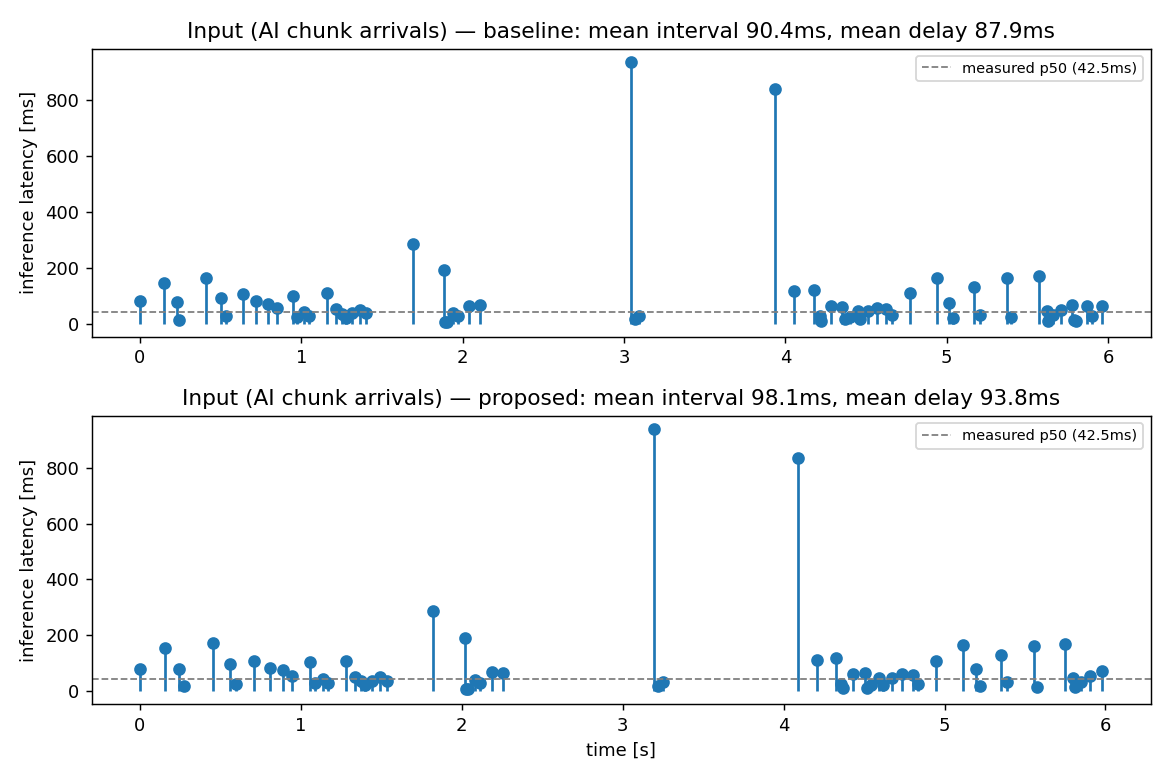
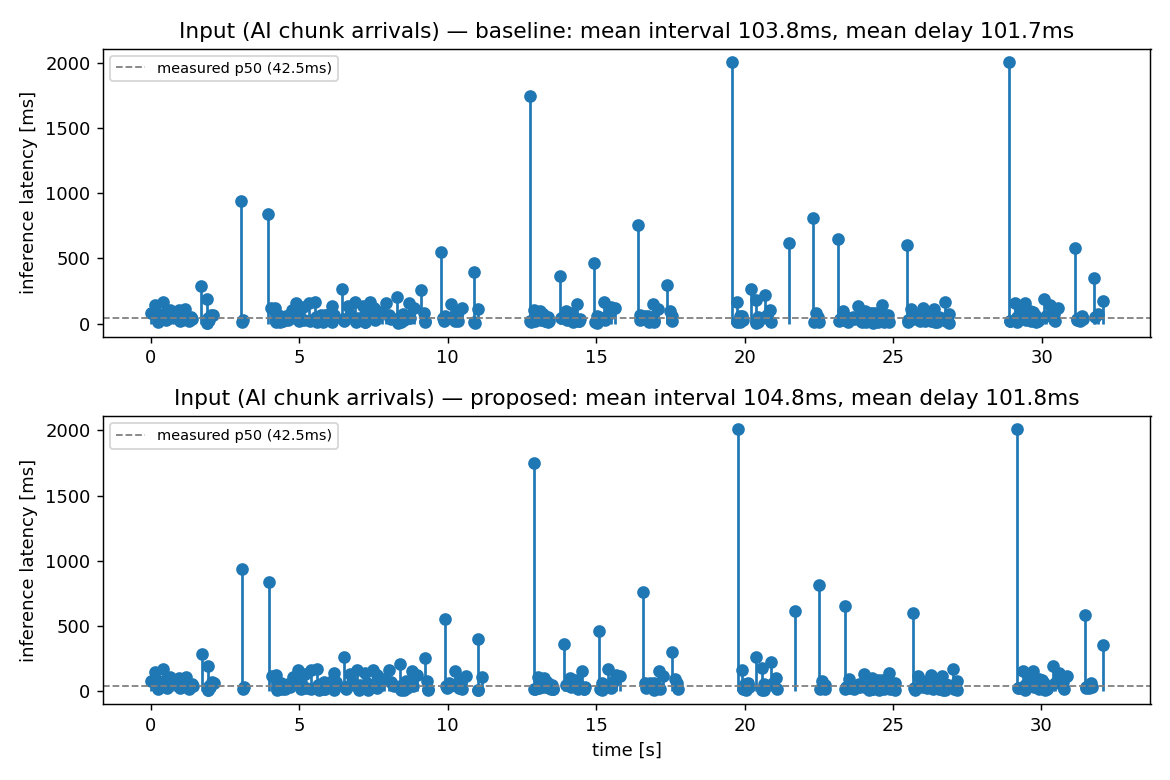
Regenerate point-mass comparison graphs with a duration long enough to finish the path
The default path (2x0.3m segments at 0.02m/s) needs 30s to complete,
but make_plots.py was run with --duration 6 -- so even "proposed" only
covered 1/5 of the path, and the baseline/proposed gap (and the corner
itself) barely showed up. Reran at --duration 32: proposed now
completes the full 0.6m path, baseline visibly stalls at 0.15m and
never reaches the corner. Updated the graph descriptions in
Experiment_Plan.md to match. 05-09 (module-ablation bars and the
generalization sweeps) are unaffected -- they're sourced from the
separate 5s/config sweep.csv, not this pair.

diff --git a/docs/Experiment_Plan.md b/docs/Experiment_Plan.md
@@ -245,21 +245,26 @@ CPU를 먹었다 — 코너가 급격해질수록 지터가 커지는 것처럼 
 
 ### 그래프 (`ai_layer/tools/make_plots.py`, `docs/ablation_results/*.png`)
 
+2026-10-10(3차, 기범 피드백 — "강제 종료 시간이 너무 짧은 것 같다"): 처음엔 `--duration 6`으로
+돌렸는데, 기본 경로가 세그먼트 0.3m×2=0.6m에 속도 0.02m/s라 **완주하려면 30초가 필요**했다 —
+6초짜리는 proposed조차 전체 경로의 1/5(0.12m)밖에 못 가서 "끝까지 다 보여주지 못하는" 그래프였다.
+`--duration 32`로 다시 돌려서 재생성(이하 숫자는 전부 32초 기준으로 교체).
+
 **① 입력 — AI chunk 도착 시각/추론 지연**
 ![입력 그래프](ablation_results/01_input_chunk_timing.png)
-Problem.md의 핵심 전제(추론 주기가 불규칙하고 1ms보다 훨씬 길다)를 실측으로 보여준다 — 실측 분포(p50 42.5ms) 기준 샘플링인데도 가끔 900ms대 스파이크가 섞인다. baseline/proposed는 같은 시드라 입력 자체는 동일(인터페이스 쪽 차이만 보려는 설계).
+Problem.md의 핵심 전제(추론 주기가 불규칙하고 1ms보다 훨씬 길다)를 실측으로 보여준다 — 실측 분포(p50 42.5ms) 기준 샘플링인데도 32초 구간엔 1~2초대 스파이크가 3번이나 섞인다(lognormal 꼬리, clip 상한 2.0s까지 찍힘 — 6초짜리에서는 이런 극단값이 거의 안 보였다). baseline/proposed는 같은 시드라 입력 자체는 동일(인터페이스 쪽 차이만 보려는 설계).
 
 **② 출력 — 진행률(progress) vs 시간**
 ![출력 그래프](ablation_results/02_output_progress.png)
-가장 선명한 그래프. proposed(파랑)는 매끄럽게 단조증가, baseline(빨강)은 같은 6초 동안 거의 1/3밖에 못 가고 중간중간 수직으로 뚝 떨어진다(역행) — 8번 문제가 그래프 한 장으로 바로 보인다.
+가장 선명한 그래프. proposed(파랑)는 32초 만에 0.6m 경로를 끝까지 매끄럽게 완주하는 반면, baseline(빨강)은 같은 32초 동안 **0.15m(전체의 1/4)밖에 못 가고** 중간중간 수직으로 뚝 떨어진다(역행) — 8번 문제와 그로 인한 "작업 시간 손실"이 그래프 한 장으로 바로 보인다.
 
 **③ 축별(X/Y/Z) 위치·속도**
 ![축별 그래프](ablation_results/03_axis_pos_vel.png)
-X(진행 방향)에서 baseline의 역행/정체가 그대로 보이고, 속도 X(t)엔 t≈3.2s에서 ±4m/s대의 급격한 스파이크가 찍힌다 — 실제 로봇이었다면 그 순간 기구적으로 충격이 가는 수준. Y/Z(진행과 무관한 축)에서도 baseline의 노이즈 폭이 proposed보다 뚜렷이 넓다(OpenLoopCorrector가 걸러주는 차이).
+X(1번째 세그먼트 진행 방향)에서 proposed는 15초쯤 0.3m에 도달해 코너를 돌고(Y가 그때부터 올라가기 시작) 32초에 Y도 0.3m로 완주하는 반면, baseline은 32초 내내 X조차 0.15m에 머물러 **코너 근처에도 못 간다**(Y는 거의 0 그대로). 속도 X(t)엔 baseline에서 ±4m/s대의 급격한 스파이크가 여러 번 찍힌다 — 실제 로봇이었다면 그 순간마다 기구적으로 충격이 가는 수준. Z(진행과 무관한 축)에서도 baseline의 노이즈 폭이 proposed보다 뚜렷이 넓다(OpenLoopCorrector가 걸러주는 차이).
 
 **④ 3D 궤적 — REF vs 출력 vs 입력**
 ![3D 궤적](ablation_results/04_trajectory_3d.png)
-검정(REF 참조경로)에 주황(각 chunk가 resync 전 제안한 경로)과 파랑(실제 실행 궤적)이 겹쳐진다 — 둘 다 REF를 잘 따라가는 걸 공간적으로 확인. (z축은 노이즈 표준편차에 맞춘 auto-scale이 착시를 일으켜서 ±2cm 고정폭으로 바꿨다 — 처음엔 노이즈가 거대한 지그재그 기둥처럼 보이는 버그가 있었음.)
+proposed는 코너를 돌아 REF(검정) 경로 끝까지 파랑 궤적이 포개지는 반면, baseline은 **첫 세그먼트의 절반 지점에서 더 못 나아가고 멈춰 있다** — 코너 자체를 아예 보여주지 못한다. 6초짜리 구버전에서는 둘 다 첫 세그먼트 초입에만 있어서 이 차이가 전혀 안 보였다. (z축은 노이즈 표준편차에 맞춘 auto-scale이 착시를 일으켜서 ±2cm 고정폭으로 바꿨다 — 처음엔 노이즈가 거대한 지그재그 기둥처럼 보이는 버그가 있었음.)
 
 **⑤ 결과 지표 — 모듈별 ablation 막대그래프**
 ![ablation 막대그래프](ablation_results/05_ablation_bars.png)
